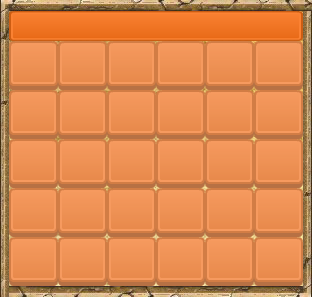
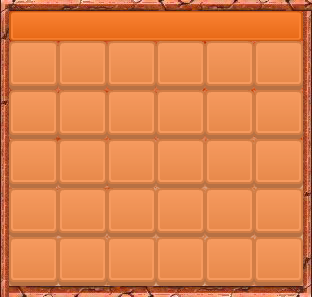
Se agrego marco al mapa y botones de zoom(aun no funcionales)

diff --git a/assets/templates/game.html b/assets/templates/game.html
@@ -1,56 +1,82 @@
 <div class="container-fluid">
 	<div class="row">
-		<!-- style="margin-top: -290px"-->
 		<div class="col-md-10" align="center">
 			<div id="dcanvas" style="width: 800px; height: 480px; position: relative" align="left">
 
-				<img class="capaSup" src="data/sprites/characters/ym/face/pepe.png"/>
-				<div class="progress capaSup" style="margin-left: 100px; margin-top: 10px ;width: 200px">
-					<div class="progress-bar progress-bar-striped progress-bar-warning" role="progressbar" aria-valuenow="60" aria-valuemin="0" aria-valuemax="100" style="width: 60%;"></div>
-				</div>
-				<div class="capaSup" style="margin-left: 100px; margin-top: 10px ;width: 200px">
-					<b>Energia</b>
+				<div id="hudSuperior" class="capaSup">
+					<img src="data/sprites/characters/ym/face/pepe.png" style="float: left;">
+					<div class="progress" style="margin-left: 100px; margin-top: 10px ;width: 200px">
+						<div class="progress-bar progress-bar-striped progress-bar-warning" role="progressbar" aria-valuenow="60" aria-valuemin="0" aria-valuemax="100" style="width: 60%;"></div>
+
+						<div style="position: absolute; float: left">
+							<b>Energia</b>
+						</div>
+					</div>
+					<div class="progress" style="margin-left: 100px; margin-top: -10px ;width: 200px">
+						<div class="progress-bar progress-bar-striped" role="progressbar" aria-valuenow="20" aria-valuemin="0" aria-valuemax="100" style="width: 60%;"></div>
+
+						<div style="position: absolute; float:left;">
+							<b>Experiencia</b>
+						</div>
+					</div>
 				</div>
 
-				<div class="progress capaSup" style="margin-left: 100px; margin-top: 40px ;width: 200px">
-					<div class="progress-bar progress-bar-striped" role="progressbar" aria-valuenow="60" aria-valuemin="0" aria-valuemax="100" style="width: 60%;"></div>
-				</div>
-				<div class="capaSup" style="margin-left: 100px; margin-top: 40px ;width: 200px">
-					<b>Experiencia</b>
-				</div>
+				<div id="jsapp" class="capaInf" style="width: 800px; height: 480px; position: relative">
+					<div id="botonera" class="capaSup" style="height: 49px; width: 261px; position: absolute; bottom: 0px">
+						<img id="btnInve" src="images/iconos/btn_inventario.png"/>
+						<img id="btnMisi" src="images/iconos/btn_mision.png" style="margin-left: -4px;"/>
+						<img id="btnLogr" src="images/iconos/btn_logros.png" style="margin-left: -4px;"/>
+						<img id="btnTale" src="images/iconos/btn_talentos.png" style="margin-left: -4px;"/>
+						<img id="btnPers" src="images/iconos/btn_personaje.png" style="margin-left: -4px;"/>
+					</div>
+					<img class="capaSup" id="audio" src="images/iconos/audio_on.png" style="position: absolute; bottom: 4px; right: 4px"/>
 
-				<div id="botonera" class="capaSup" style="height: 49px; width: 261px; position: absolute; bottom: 0px">
-					<img id="btnInve" src="images/iconos/btn_inventario.png" />
-					<img id="btnMisi" src="images/iconos/btn_mision.png"/>
-					<img id="btnLogr" src="images/iconos/btn_logros.png"/>
-					<img id="btnTale" src="images/iconos/btn_talentos.png"/>
-					<img id="btnPers" src="images/iconos/btn_personaje.png"/>
-				</div>
-				<img class="capaSup" id="audio" src="images/iconos/audio_on.png" style="margin-top: 460px; margin-left: 780px"/>
+					<div id="inv" class="div-panel">
+						<p class="capaSup titulo-botonera">
+							Inventario
+						</p>
+						<img src="images/iconos/inventario2.png">
+					</div>
 
+					<div id="mis" class="div-panel">
+						<p class="capaSup titulo-botonera">
+							Misiones
+						</p>
+						<img src="images/iconos/misiones2.png">
+					</div>
+
+					<div id="log" class="div-panel">
+						<p class="capaSup titulo-botonera">
+							Logros
+						</p>
+						<img src="images/iconos/logros2.png">
+					</div>
+
+					<div id="tal" class="div-panel">
+						<p class="capaSup titulo-botonera">
+							Talentos
+						</p>
+						<img src="images/iconos/talentos2.png">
+					</div>
+
+					<div id="per" class="div-panel">
+						<p class="capaSup titulo-botonera">
+							Personaje
+						</p>
+						<img src="images/iconos/personaje2.png">
+					</div>
+				</div>
 				<div id="screen"></div>
-				<div id="jsapp" class="capaInf">
-				<div id="inv" class="div-panelbtn">
-					<p class="capaSup titulo-botonera">Inventario</p>
-					<img src="images/iconos/inventario2.png">
-				</div>
-				<div id="mis" class="div-panelbtn">
-					
-				</div>
-					<script type="text/javascript" src="../lib/jquery.js"></script>
-					<!--script src="js/comun.js"></script-->
-					<script type="text/javascript" src="../lib/melonJS.js"></script>
-					<script type="text/javascript" src="../lib/plugins/debug/debugPanel.js"></script>
-					<script type="text/javascript" src="../js/main.js"></script>
-					<script type="text/javascript" src="../js/play.js"></script>
-					<script type="text/javascript" src="../js/entities/player.js"></script>
-				</div>
 			</div>
 		</div>
 
 		<div class="col-md-2" align="left">
-			<div style="width: 156px; height: 156px">
-				<img src="data/map/minimap/Inicio.png" width="100%" />
+			<div style="width: 176px; height: 176px">
+				<img src="images/iconos/MarcoMap.png" style="position: absolute;float: left">
+				<img src="data/map/minimap/Inicio.png" width="156px" height="156px"  style="position: absolute;float: left; margin-left: 9px;margin-top: 11px" >
+
+				<img id="btnMas" class="capaSup" style="position: absolute;float: right;" src="images/iconos/btnMas.png">
+				<img id="btnMenos" class="capaSup" style="position: absolute;float: right;bottom: 0px;" src="images/iconos/btnMenos.png">
 			</div>
 		</div>
 	</div>

diff --git a/assets/js/hud.js b/assets/js/hud.js
@@ -6,6 +6,9 @@ function noPressBtn() {
 	$("#btnTale").attr("src", "../images/iconos/btn_talentos.png");
 	$("#inv").hide();
 	$("#mis").hide();
+	$("#log").hide();
+	$("#tal").hide();
+	$("#per").hide();
 }
 
 // Esto se ejecuta al terminar de cargar la pagina
@@ -21,6 +24,8 @@ $(function() {
 			me.audio.unmuteAll();
 		}
 	});
+	
+	
 
 	/* 	BOTONERA DEL JUEGO
 	*/
@@ -31,7 +36,6 @@ $(function() {
 		if ($("#btnInve").attr("src") != "../images/iconos/btn_inventarioOVER.png") {
 			noPressBtn();
 			$("#btnInve").attr("src", "../images/iconos/btn_inventarioOVER.png");
-
 			$("#inv").show();
 		} else {
 			$("#btnInve").attr("src", "../images/iconos/btn_inventario.png");
@@ -45,7 +49,6 @@ $(function() {
 			noPressBtn();
 			$("#btnMisi").attr("src", "../images/iconos/btn_misionOVER.png");
 			$("#mis").show();
-			$('#mis').prepend('<img class="capaSup" src="../images/iconos/misiones.png" style="margin-top: 136px"/>');
 		} else {
 			$("#btnMisi").attr("src", "../images/iconos/btn_mision.png");
 			$("#mis").hide();
@@ -57,9 +60,10 @@ $(function() {
 		if ($("#btnPers").attr("src") != "../images/iconos/btn_personajeOVER.png") {
 			noPressBtn();
 			$("#btnPers").attr("src", "../images/iconos/btn_personajeOVER.png");
-
+			$("#per").show();
 		} else {
 			$("#btnPers").attr("src", "../images/iconos/btn_personaje.png");
+			$("#per").hide();
 		}
 	});
 
@@ -68,8 +72,10 @@ $(function() {
 		if ($("#btnLogr").attr("src") != "../images/iconos/btn_logrosOVER.png") {
 			noPressBtn();
 			$("#btnLogr").attr("src", "../images/iconos/btn_logrosOVER.png");
+			$("#log").show();
 		} else {
 			$("#btnLogr").attr("src", "../images/iconos/btn_logros.png");
+			$("#log").hide();
 		}
 	});
 
@@ -78,8 +84,10 @@ $(function() {
 		if ($("#btnTale").attr("src") != "../images/iconos/btn_talentosOVER.png") {
 			noPressBtn();
 			$("#btnTale").attr("src", "../images/iconos/btn_talentosOVER.png");
+			$("#tal").show();
 		} else {
 			$("#btnTale").attr("src", "../images/iconos/btn_talentos.png");
+			$("#tal").hide();
 		}
 	});
 

diff --git a/assets/styles/comun.css b/assets/styles/comun.css
@@ -72,10 +72,10 @@
 	margin-bottom: 15px;
 }
 
-.div-panelbtn{
+.div-panel{
 	display: none; 
 	position: absolute; 
-	bottom: 55px; 
+	bottom: 49px; 
 	width: 312px; 
 	height: 297px
 }
